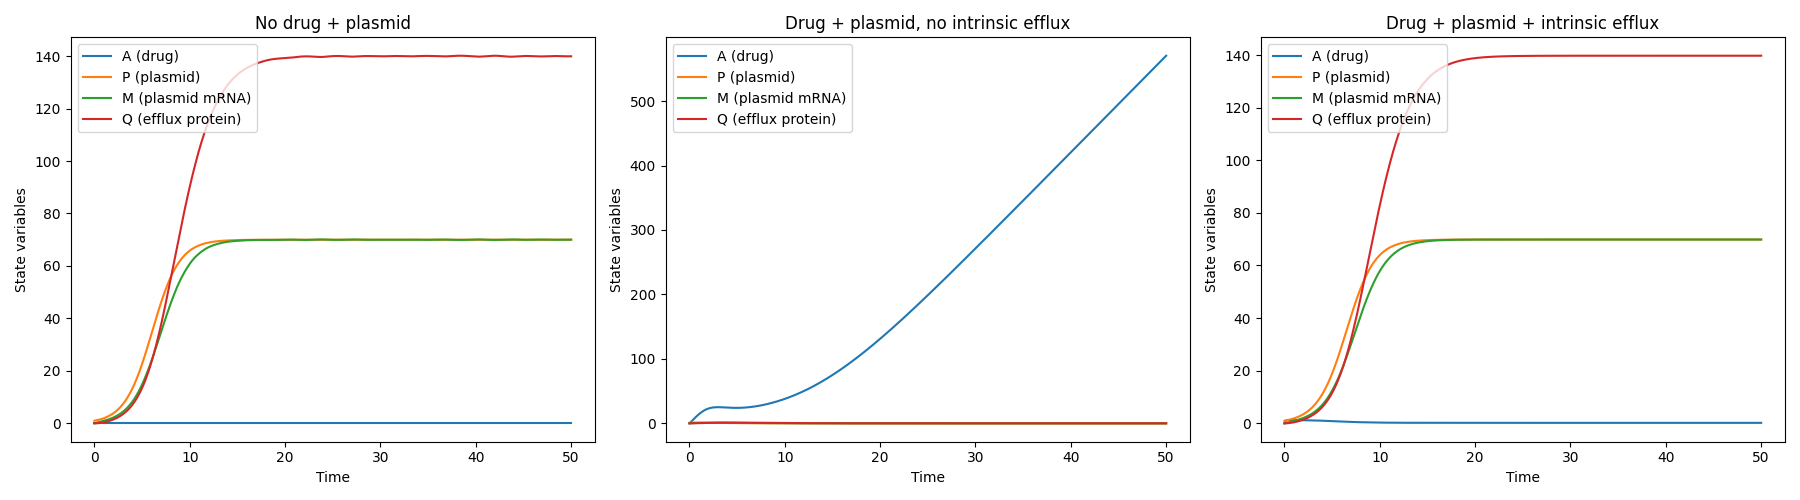
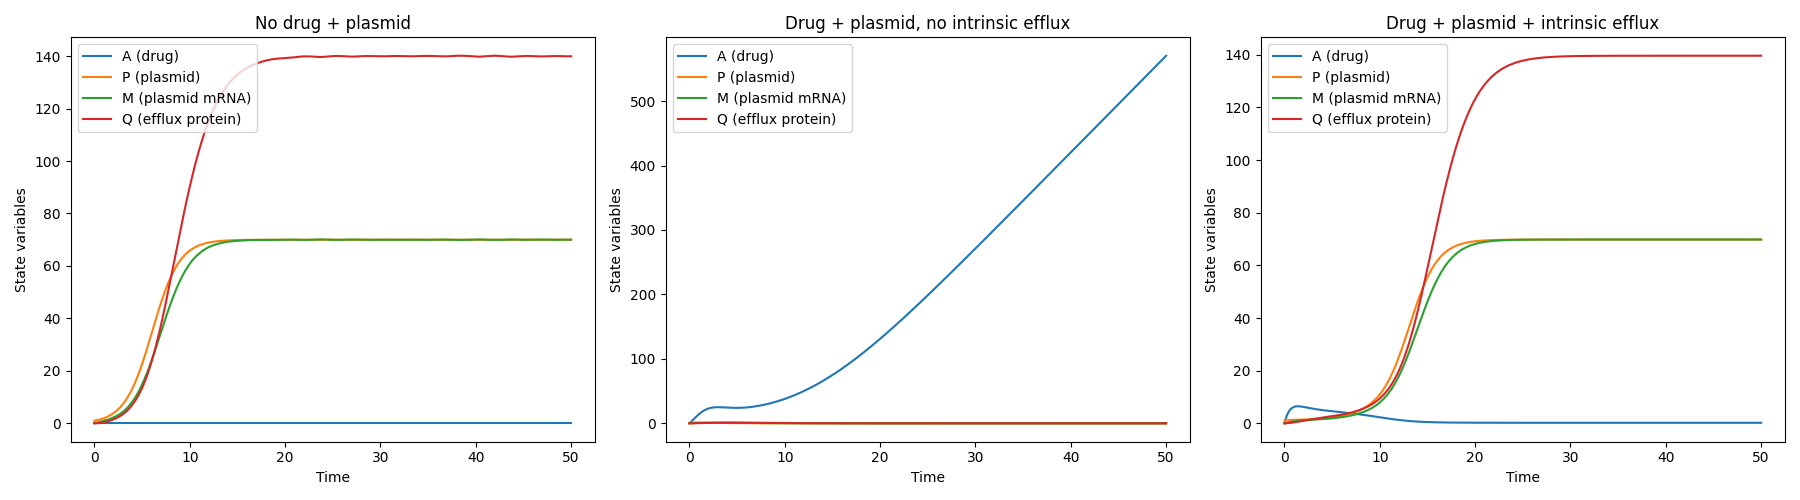
Edits

Changed region(s): [[0.7467, 0.45, 0.84, 0.72], [0.7156, 0.75, 0.8089, 0.87], [0.8089, 0.09, 0.8711, 0.15]]

diff --git a/main.py b/main.py
@@ -7,7 +7,7 @@ from model.deterministic.invasion import critical_Eh, critical_Aext
 from model.deterministic.equilibria import plasmid_free_equilibrium, invasion_eigenvalue
 from model.deterministic.odes import run_odes
 from model.stochastic.pdmp import run_pdmp_scenarios
-from model.stochastic.statistics import extinction_probability, rescue_probability, mean_time_to_resistance
+from model.stochastic.statistics import extinction_probability, rescue_probability
 from model.utils.charts import plot_time_series, plot_ssa_trajectories
 
 def get_scenarios():
@@ -25,7 +25,7 @@ def get_scenarios():
         {
             "name": "Drug + plasmid + intrinsic efflux",
             "A_ext": 15.0,
-            "E_h": 12.0
+            "E_h": 2.0
         }
     ]
     return scenarios
@@ -89,7 +89,7 @@ def ssa_output(base_params):
 parser = argparse.ArgumentParser(description="Plasmid efflux dynamics model")
 parser.add_argument("--params", type=str, default="parameters/params.json", help="Path to parameter JSON file")
 parser.add_argument("--TMAX", type=int, default=50, help="Maximum time to run")
-parser.add_argument("--steps", type=int, default=50, help="Number of steps")
+parser.add_argument("--steps", type=int, default=100, help="Number of steps")
 args = parser.parse_args()
 
 if not os.path.exists(args.params):
